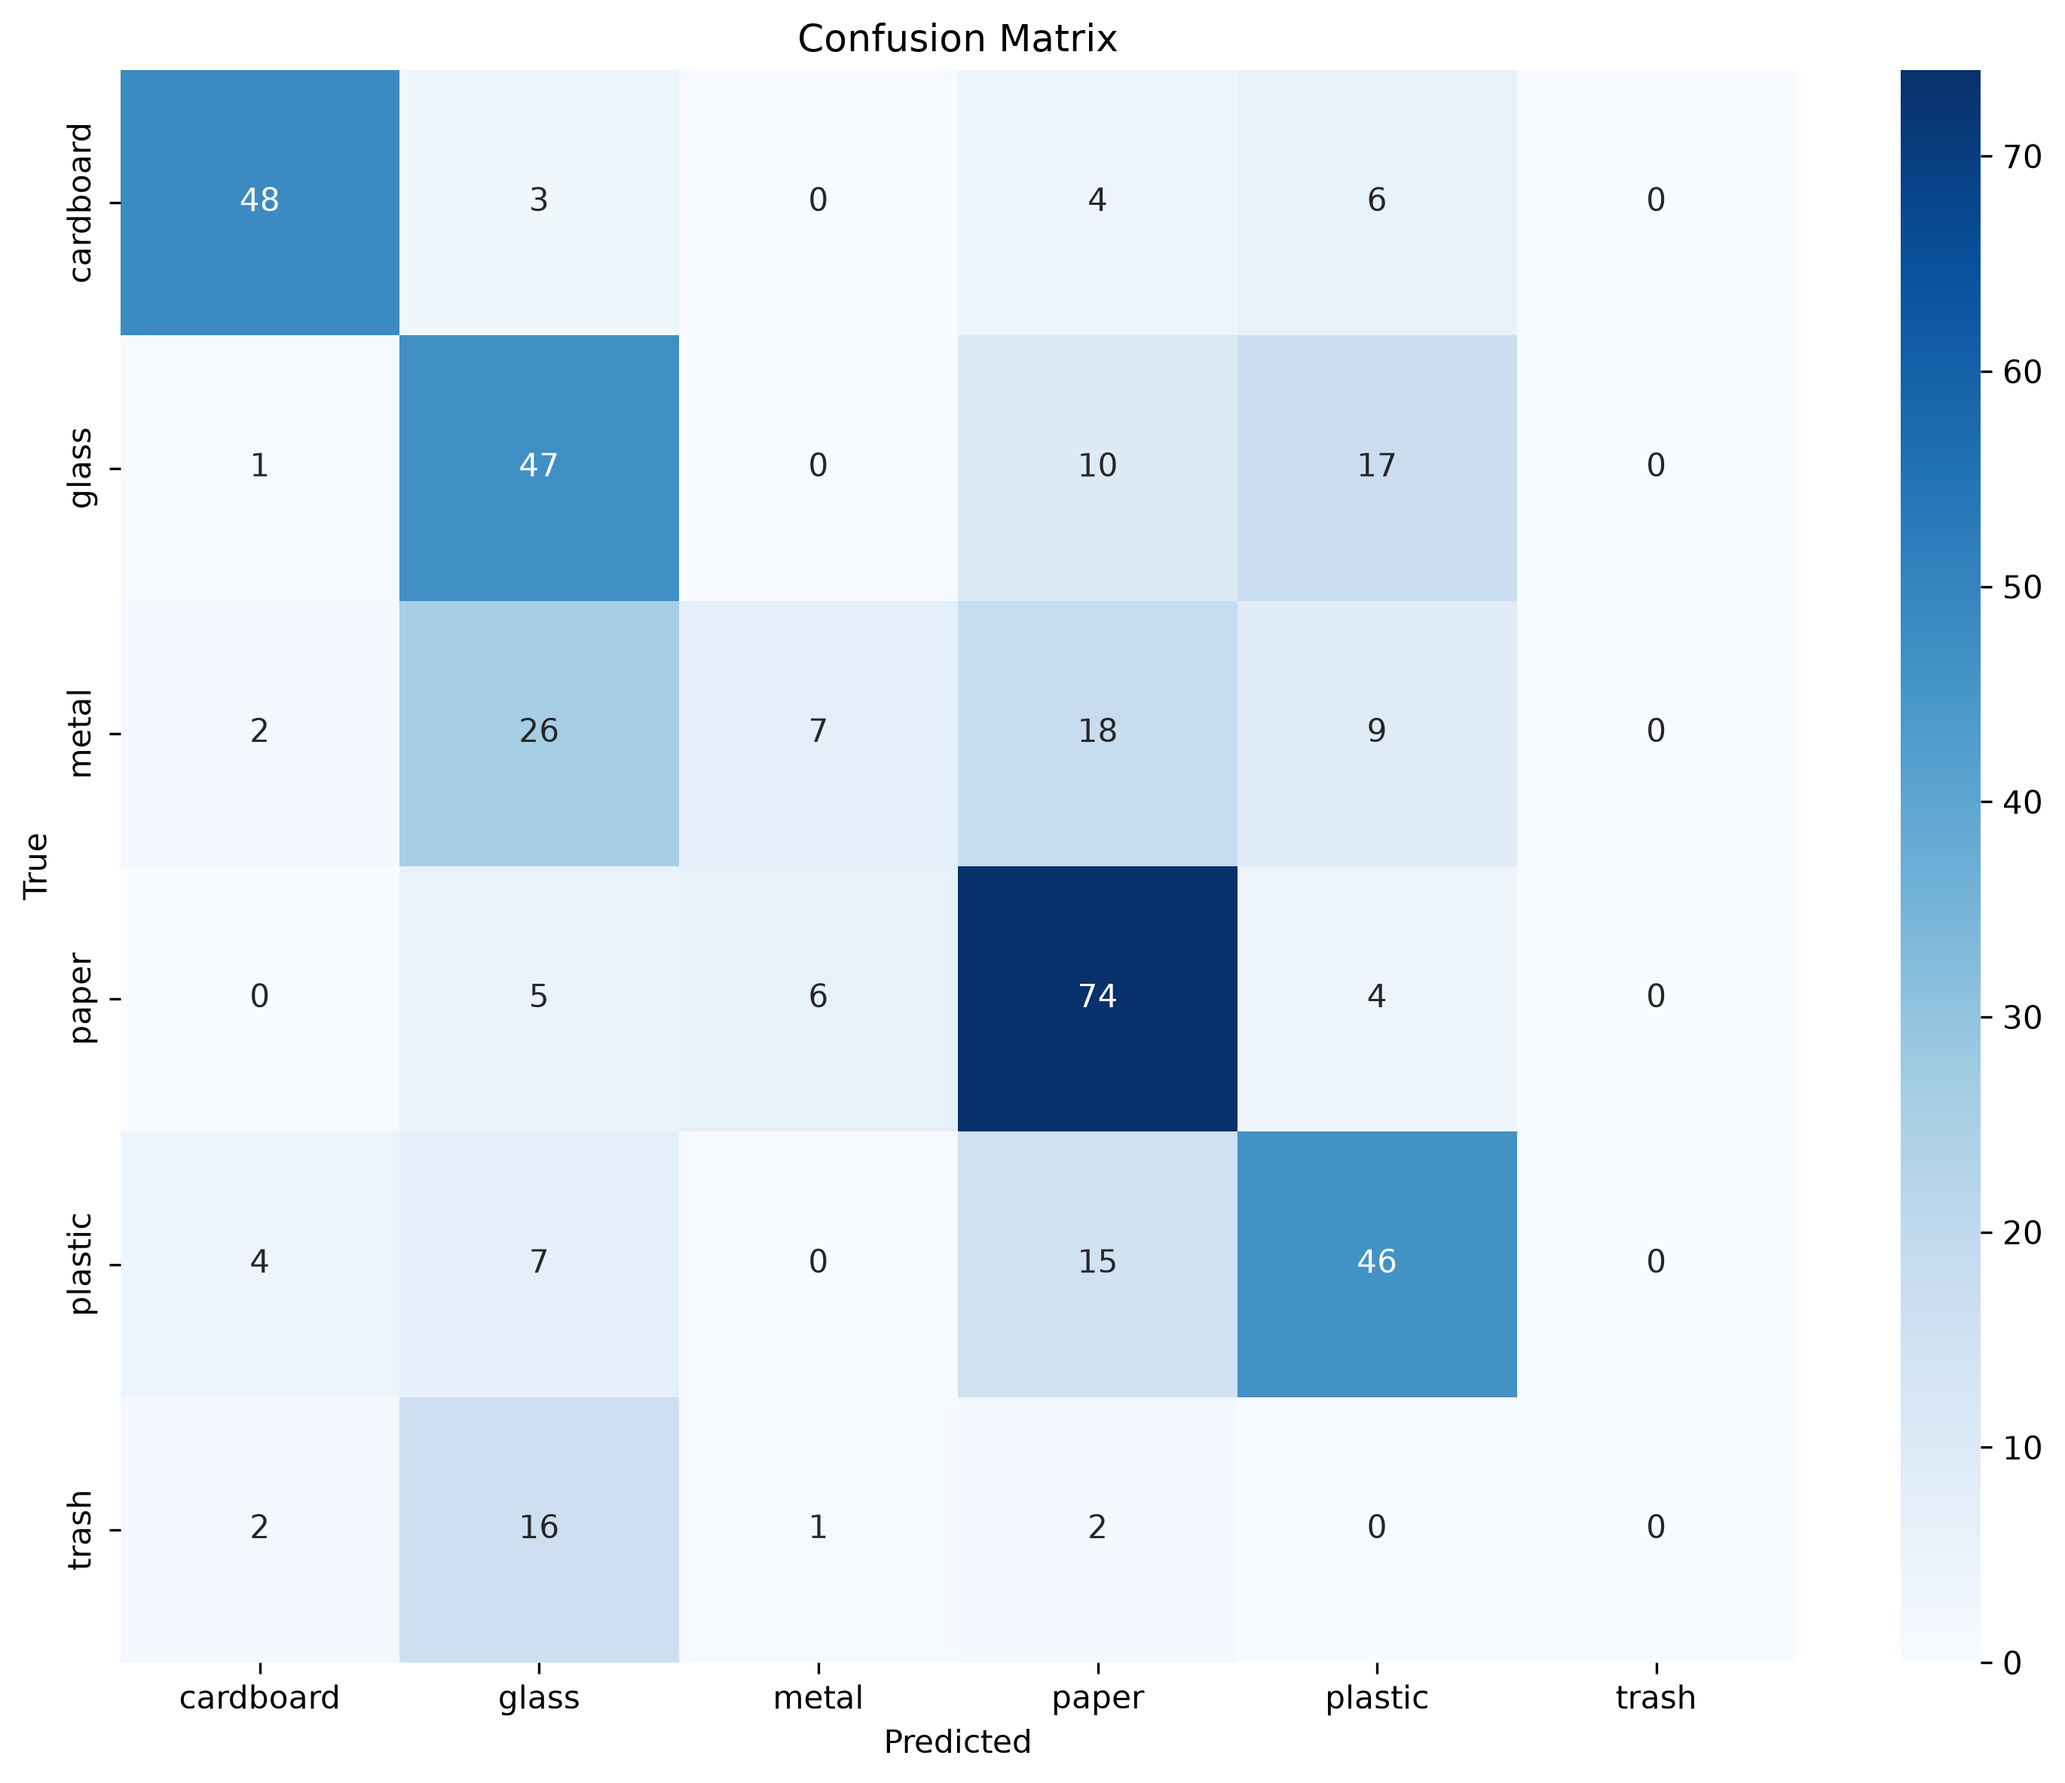
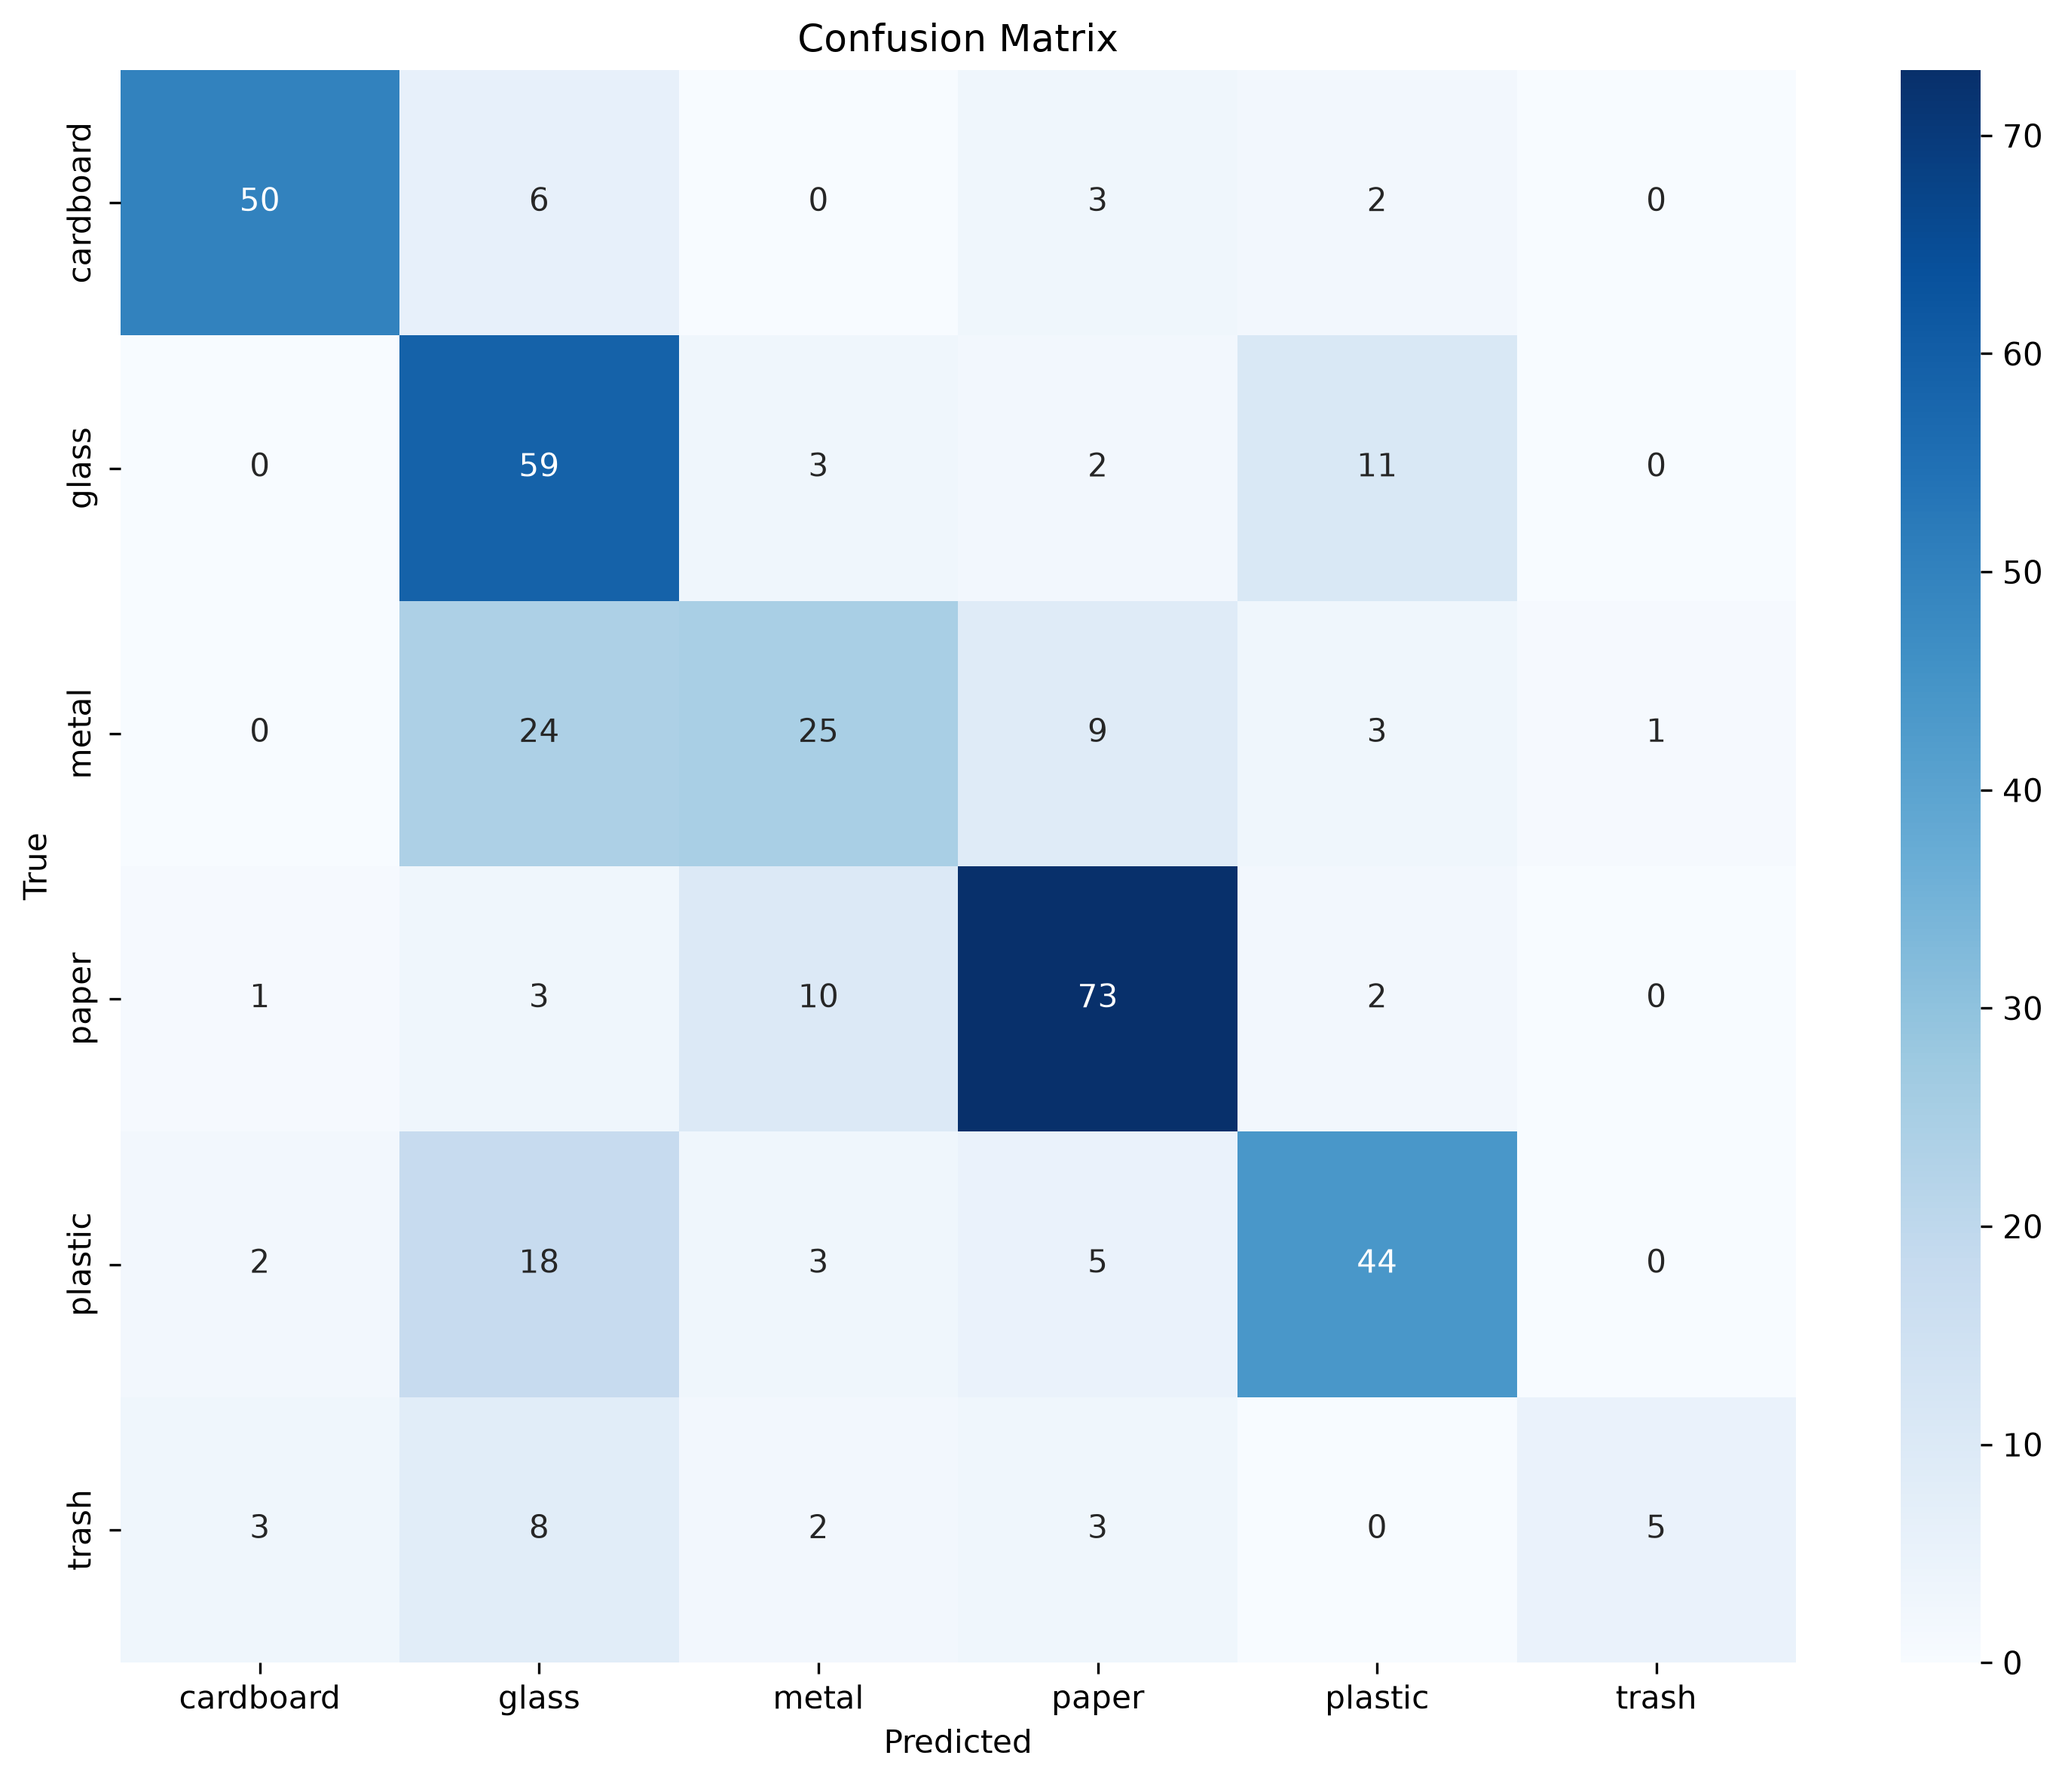
Train model for 30 epochs, update results and figures

diff --git a/src/train.py b/src/train.py
@@ -43,7 +43,7 @@ class Config:
     # Hiperparametri
     IMAGE_SIZE = 224
     BATCH_SIZE = 32
-    NUM_EPOCHS = 10
+    NUM_EPOCHS = 30
     LEARNING_RATE = 1e-3
     WEIGHT_DECAY = 1e-4
     NUM_WORKERS = 4
